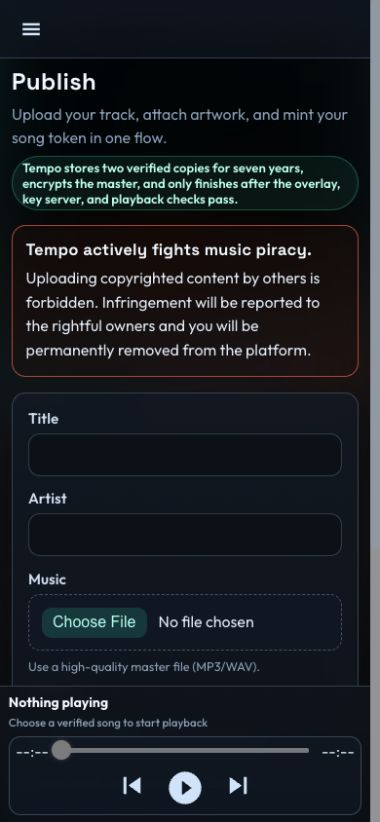
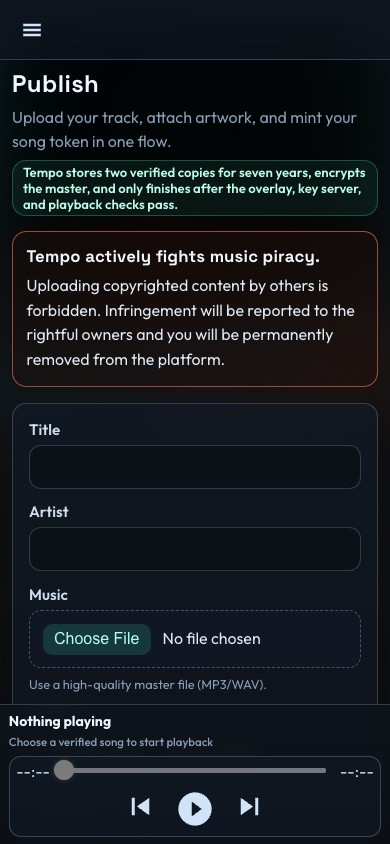
Contain mobile publish notice

diff --git a/frontend/src/pages/PublishSong/PublishSong.scss b/frontend/src/pages/PublishSong/PublishSong.scss
@@ -18,6 +18,8 @@
 
   .publishHeaderHint {
     width: fit-content;
+    max-width: 100%;
+    box-sizing: border-box;
     border: 1px solid rgba(35, 198, 165, 0.35);
     background: rgba(35, 198, 165, 0.09);
     color: #befdeb;
@@ -25,6 +27,7 @@
     font-weight: 600;
     border-radius: 999px;
     padding: 0.2rem 0.62rem;
+    overflow-wrap: anywhere;
   }
 
   .publishButton {
@@ -167,6 +170,10 @@
   }
 
   @media screen and (max-width: 768px) {
+    .publishHeaderHint {
+      border-radius: 14px;
+    }
+
     .publishLoadingCard {
       padding: 1rem 0.9rem;
 
